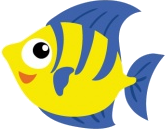
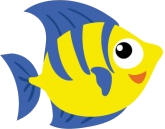
new fish

diff --git a/js/game.js b/js/game.js
@@ -790,7 +790,132 @@ var levels = {
                 
 			]
 		},
+          {   // fourth level
+			foreground:'fondo8',
+			background:'fondo8',
+			entities:[
+				{type:"ground", name:"dirt", x:500,y:440,width:1000,height:20,isStatic:true},
+				{type:"ground", name:"7", x:185,y:390,width:30,height:80,isStatic:true},
+
+				
+                
+          {type:"block", name:"alga", x:820,y:380,angle:90,width:100,height:25},
+				{type:"block", name:"alga", x:720,y:380,angle:90,width:100,height:25},
+				{type:"block", name:"alga", x:620,y:380,angle:90,width:100,height:25},
+				{type:"block", name:"alga", x:670,y:317.5,width:100,height:25},
+                {type:"block", name:"alga", x:770,y:317.5,width:100,height:25},
+                
+                
+                
+                {type:"block", name:"alga", x:620,y:380,angle:90,width:100,height:25},
+				{type:"block", name:"alga", x:520,y:380,angle:90,width:100,height:25},
+				{type:"block", name:"alga", x:420,y:380,angle:90,width:100,height:25},
+				{type:"block", name:"alga", x:470,y:317.5,width:100,height:25},
+                {type:"block", name:"alga", x:570,y:317.5,width:100,height:25},
+                
+                
+                
+                
+                
+                 
+                
+                
+                
+                //{type:"block", name:"7", x:1020,y:380,angle:90,width:100,height:25},
+				{type:"block", name:"alga", x:920,y:380,angle:90,width:100,height:25},
+				{type:"block", name:"alga", x:820,y:380,angle:90,width:100,height:25},
+				{type:"block", name:"alga", x:870,y:317.5,width:100,height:25},
+               
+                 {type:"block", name:"alga", x:420,y:380,angle:90,width:100,height:25},
+				{type:"block", name:"alga", x:320,y:380,angle:90,width:100,height:25},
+				//{type:"block", name:"7", x:220,y:380,angle:90,width:100,height:25},
+				//{type:"block", name:"7", x:270,y:317.5,width:100,height:25},
+                {type:"block", name:"alga", x:370,y:317.5,width:100,height:25},
+                
+                
+                
+                
+                
+                
+                
+                
+                
+                
+                
+                
+                
+                
+                
+                
+                // {type:"block", name:"7", x:70,y:317.5,width:100,height:25},
+                
+                
+                
+                
+                
+                
+				
+                //{type:"block", name:"7", x:870,y:317.5,width:100,height:25},
+                
+               {type:"villain", name:"8",x:880,y:300,calories:690}, 
+             {type:"villain", name:"8",x:380,y:300,calories:690},  
+            {type:"villain", name:"3",x:720,y:205,calories:590},
+             {type:"villain", name:"3",x:520,y:205,calories:590},  
+              {type:"villain", name:"4",x:620,y:205,calories:690},  
+               
+                  
+          //  {type:"villain", name:"2",x:620,y:380,calories:590},
+                
+           // {type:"villain", name:"4",x:320,y:205,calories:590},
+                   
+
+			//{type:"villain", name:"1",x:520,y:205,calories:590},
+
+				
+				
+				
+
+				{type:"block", name:"alga", x:670,y:255,angle:90,width:100,height:25},
+				{type:"block", name:"alga", x:770,y:254,angle:90,width:100,height:25},
+				{type:"block", name:"alga", x:720,y:192.5,width:100,height:25},
+                
+                {type:"block", name:"alga", x:470,y:255,angle:90,width:100,height:25},
+				{type:"block", name:"alga", x:570,y:254,angle:90,width:100,height:25},
+				{type:"block", name:"alga", x:520,y:192.5,width:100,height:25},
+                
+                
+             
+                 {type:"villain", name:"4",x:720,y:105,calories:690}, 
+                
+                  {type:"villain", name:"4",x:520,y:105,calories:690}, 
+                
+				{type:"block", name:"alga", x:670,y:95,angle:90,width:100,height:25},
+				{type:"block", name:"alga", x:770,y:95,angle:90,width:100,height:25},
+				{type:"block", name:"alga", x:720,y:32.5,width:100,height:25},
+                
+                {type:"block", name:"alga", x:470,y:95,angle:90,width:100,height:25},
+				{type:"block", name:"alga", x:570,y:95,angle:90,width:100,height:25},
+				{type:"block", name:"alga", x:520,y:32.5,width:100,height:25},
+                
+				
+              
+
+				
+				
+				{type:"hero", name:"9",x:30,y:415},
+				{type:"hero", name:"2",x:80,y:405},
+				{type:"hero", name:"5",x:140,y:405},
+            
+            
+          
+                
+			]
+		},
         
+            
+        
+            
+                
             
         
             
@@ -943,6 +1068,13 @@ var entities = {
 			restitution:0.4,
 			
 		},
+       "5":{
+			shape:"circle",
+			radius:25,
+			density:1.5,
+			friction:0.5,
+			restitution:0.4,
+       },
         "6":{
 			shape:"circle",
 			radius:20,
